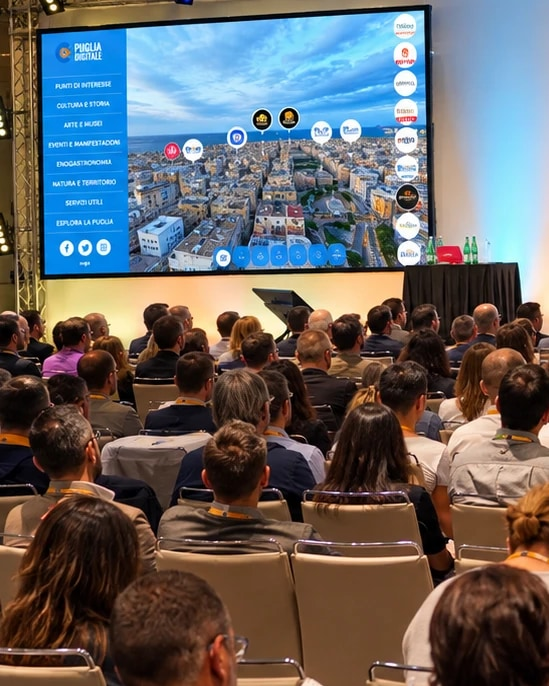
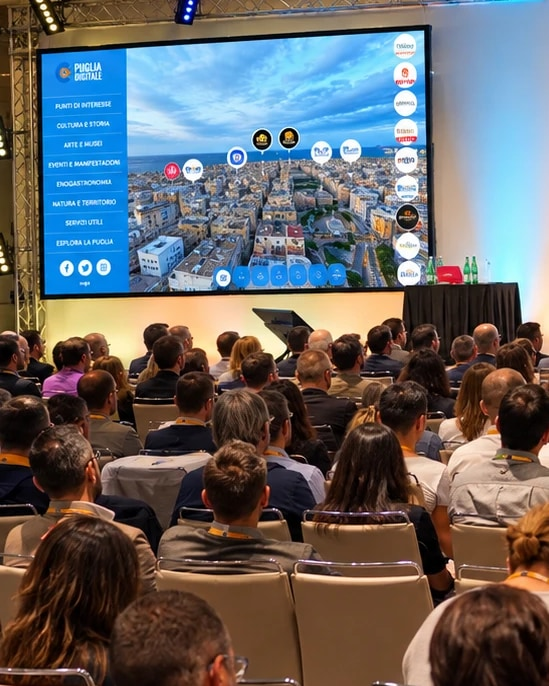
Foto dell'evento in Home: margini sopra gli schermi e nodo 1 sui tetti (creative-director); DV 0.15
Correzioni del creative-director ai ritagli della foto pulita:
- Panorama: cima a 40 invece di 55, con 21 px sopra lo spigolo più alto dello schermo di destra.
- «Città»: cima a 100 invece di 120, con 24 px sopra lo schermo; il leggio resta fuori.
- Nodo 1 sui tetti della città, sotto i segnaposto bianchi del portale, perché non si legga come
  uno di loro: 17,9/37,8, su mobile 50,3/31,8. Nodi 2 e 3 negli stessi punti, ricalcolati sulla
  nuova cima: 36,6/41,4 e 84,9/27,1.
- Direzione visiva 0.15 §4.2: tabella dei ritagli con due sorgenti.

Verifiche:
- catture a 1440 e 390 px con i nodi al loro posto;
- controllo n. 8 vuoto, astro check 0 errori, check:seo senza problemi;
- axe 0 violazioni sulla Home.

Claude-Session: https://claude.ai/code/session_01NKvF9t4Po2vVKsTtpGs26Y

diff --git a/docs/creativa/direzione-visiva.md b/docs/creativa/direzione-visiva.md
@@ -3,7 +3,7 @@ titolo: Direzione visiva
 owner: creative-director
 contributi: [ui-designer, web-performance-specialist, ux-designer, brand-strategist, copywriter-brand]
 stato: in revisione
-versione: 0.14
+versione: 0.15
 aggiornato: 2026-10-07
 fonti: [docs/brief/linee-guida.md, docs/brief/brief-consolidato.md, docs/creativa/analisi-riferimento.md, docs/ux/sitemap.md, docs/contenuti/copy-deck/home.md, src/assets/images/, test tipografici, cromatici e fotografici del 2026-09-28 (Playwright 1.56, sharp 0.34), review di Fase 5 in docs/review/ (2026-09-28), docs/review/2026-09-28-sito-verdetto-g4-creative-director.md, docs/decisioni/005-preload-del-font.md, docs/strategia/coordinate-luoghi.md (0.3), docs/review/2026-09-29-sito-ricontrollo-c14-ui-designer.md, docs/review/2026-09-29-rotazione-orizzonte-mobile-ux-designer.md, docs/ux/accessibilita.md (§2.6), misure della rotazione del 2026-09-29 (Playwright, Chromium 141, build del commit 100b578), richieste dell'utente del 2026-10-05 sulla carta di Città Digitali, docs/strategia/citta-digitali-elenco.md (0.2), docs/review/2026-10-05-mappa-citta-digitali-ui-designer.md, docs/review/2026-10-05-omonimia-citta-digitali-seo-content.md (§5), build di prova della carta del 2026-10-05 (http://localhost:4333, copia di ui-designer) e controllo del creative-director con Playwright (Chromium) a 16 larghezze, docs/review/2026-10-05-carta-citta-digitali-pagina-ui-designer.md e la sua build di prova (scratchpad ui-cdpage), docs/contenuti/copy-deck/citta-digitali.md (1.2, verifica V3), docs/review/2026-10-05-carta-citta-digitali-pagina-ux-designer.md (L6, §3.4, §6), docs/review/2026-10-05-omonimia-citta-digitali-seo-content.md (O4), staging del commit c98f565 e prova in pagina di O4 (Playwright, Chromium, da 320 a 1920 px, anche con la spaziatura di WCAG 1.4.12), src/assets/images/acquaviva-digitale.webp (immagine del portale del cliente, fornita dall'utente il 2026-10-06), decisione dell'utente del 2026-10-06 sui segni grafici (riferita dalla sessione principale), docs/contenuti/alt-text.md (1.3), docs/decisioni/007-immagine-di-acquaviva-con-segni-grafici.md, prove di ritaglio del creative-director del 2026-10-06 (sharp, Playwright), richiesta dell'utente del 2026-10-06 sulla Puglia intera e sue conferme (riferite dalla sessione principale), docs/review/2026-10-06-carta-puglia-intera-ui-designer.md (P1–P5), docs/review/2026-10-06-carta-puglia-intera-ux-designer.md, docs/review/2026-10-05-legenda-mappa-copywriter-brand.md (1.3, L7), docs/strategia/citta-digitali-elenco.md (0.3, §4), docs/ux/accessibilita.md (0.7), staging dei commit b113efb e 0d106e7 e controllo del creative-director con Playwright (Chromium) da 320 a 2560 px, prova del generatore delle carte con la regola dei 6 px sulla carta d'Italia (copia nello scratchpad, 2026-10-06), docs/review/2026-10-06-regola-11-carte-ui-designer.md (R1–R3) e le sue immagini di confronto (scratchpad ui-apart), schermate SIII inviate dall'utente il 2026-10-07 (src/assets/images/siii-*.jpg), review del 2026-10-07 in docs/review/ (schermate SIII: cro-specialist, ux-designer, web-performance-specialist; carta della Terra di Bari: ux-designer; verifica di P4: ui-designer), docs/contenuti/alt-text.md (1.6), docs/contenuti/copy-deck/home.md (1.5, didascalia della foto dell'evento), staging di d3eba9c e prove del creative-director del 2026-10-07 (Playwright, Chromium: hero di /siii/ con la sala e con la facciata, ritagli 4:5 al centro, in alto e in basso; capitoli 01–03 della Home)]
 ---
@@ -89,6 +89,8 @@ Tutto il resto è tipografia e aria.
 - §7.3, riga 5, e §7.4, righe 1 e 6: allineate al sito. Decisioni richieste, punto 6: P4 decisa.
 
 **Modifiche della versione 0.14 (2026-10-07).** §4.3: eccezione per centrare il ritratto della Home, su segnalazione dell'utente («non è centrata»). Si tolgono dallo sfondo le lettere del marchio che il ritaglio taglierebbe e si usa una nuova maschera. Il ritratto di Contatti resta com'è.
+
+**Modifiche della versione 0.15 (2026-10-07).** §4.2: la foto nuova dell'evento è nella Home. La tabella dei ritagli ha due sorgenti, i ritagli sono corretti (margini sopra gli schermi), i nodi sono spostati e c'è la proposta per il ritaglio «Schermo» di `/puglia-digitale/`.
 
 
 Il concept delle linee guida (spazio fisico → spazio digitale → persone → imprese → territorio) diventa quattro segni riconoscibili, più una regola tipografica.
@@ -519,55 +521,57 @@ La scala è fluida, con i valori misurati a 390 e 1440 px.
 2. **Una foto non documentale non finge di esserlo.** I ritratti del fondatore con fondali generati si usano solo se l'utente lo decide (DR3, §4.3). In quel caso si trasformano: monocromia a inchiostro, taglio stretto, nota di trasparenza e nessuna didascalia che li leghi a un evento.
 3. **Dove manca un'immagine, lo spazio resta progettato.** In lavorazione mostra un segnaposto dichiarato, in pubblicazione una variante tipografica (§4.5). Mai stock, mai immagini generate da noi.
 
-### 4.2 Foto dell'evento Puglia Digitale (`evento-puglia-digitale.jpg`, 1365 × 768)
+### 4.2 Foto dell'evento Puglia Digitale (`evento-puglia-digitale.jpg`, 1365 × 768; `evento-puglia-digitale-pulita.webp`, 1672 × 941)
 
-È l'unica fotografia documentale disponibile e contiene tutto il concept in un'immagine:
+È l'unica immagine dell'evento disponibile e contiene tutto il concept. Le due versioni sono elaborazioni con strumenti di intelligenza artificiale e portano la nota (B4, I7), quindi non sono documenti finché il cliente non manda l'originale dello scatto. Si vedono:
 - il palco con il fondatore e il marchio Puglia Digitale;
 - due maxischermi con tour virtuali a 360° (una vista aerea di città con le attività come punti; una piazza storica);
 - una platea numerosa e reale.
 
-**Ritagli**, con coordinate in pixel sull'originale. Tutti escludono la cornice bianca, il marchio in sovrimpressione in alto a sinistra, la scritta «Digital Innovation for the Territory» e il simbolo ✦.
+**Ritagli**, con coordinate in pixel sulla loro sorgente.
+- I ritagli della versione del 2026-09-28 escludono la cornice bianca, il marchio in sovrimpressione in alto a sinistra, la scritta «Digital Innovation for the Territory» e il simbolo ✦.
+- La versione del 2026-10-07 non ha sovrimpressioni: i ritagli possono tenere interi i due schermi.
 
-| Ritaglio | Area (x, y, larghezza × altezza) | Formato | Uso |
-|---|---|---|---|
-| **Panorama** | 46, 124, 1272 × 560 | 2,27:1 | Home §3 «Documento» (desktop e tablet) |
-| **Città** | 46, 124, 448 × 560 | 4:5 | Home §3 su mobile: lo schermo con la città vista dall'alto a 360° e la platea |
-| **Palco** | 470, 124, 448 × 560 | 4:5 | Home §6, chiusura della timeline del fondatore (opzione DR3-a, §4.3) |
-| **Schermo** | 880, 124, 438 × 548 | 4:5 | Puglia Digitale §2: la piazza a 360° sul maxischermo e chi la guarda |
+| Ritaglio | Sorgente | Area (x, y, larghezza × altezza) | Formato | Uso |
+|---|---|---|---|---|
+| **Panorama** | `evento-puglia-digitale-pulita.webp` (dal 2026-10-07) | 0, 40, 1672 × 736 | 2,27:1 | Home §3 «Documento» (desktop e tablet). I due schermi e il marchio sul fondale sono interi, con 21 px di margine sopra lo spigolo più alto dello schermo destro |
+| **Città** | `evento-puglia-digitale-pulita.webp` | 24, 100, 549 × 686 | 4:5 | Home §3 su mobile: lo schermo con la città vista dall'alto a 360°, intero con 24 px di margine sopra, e la platea. Il bordo destro si ferma prima del leggio |
+| **Palco** | `evento-puglia-digitale.jpg` | 470, 124, 448 × 560 | 4:5 | Solo con DR3-a (§4.3), oggi non in uso |
+| **Schermo** | `evento-puglia-digitale.jpg` | 880, 124, 438 × 548 | 4:5 | Puglia Digitale §2: la piazza a 360° sul maxischermo e chi la guarda. Taglia lo schermo sopra e a destra. Con la sorgente nuova, se l'utente lo approva: 1112, 40, 560 × 700, con lo schermo intero e circa 20 px di margine su tre lati `[IPOTESI: da provare in pagina]` |
 
 In Home la foto compare al massimo due volte, in ritagli con soggetti diversi.
 
 - **Colore.** Intatto: nessun filtro, viraggio o duotono. Solo esportazione ottimizzata in AVIF e WebP.
-- **Limite di risoluzione.** Il ritaglio pulito misura 1272 px: la foto non va mai a tutto schermo e resta al massimo a 1200 px CSS. Sugli schermi ad alta densità si ammorbidisce, quindi l'originale è la prima richiesta (§4.6).
-- **Nodi sul Panorama.** Sono pulsanti numerati, con una legenda sotto la foto sempre visibile su mobile. La legenda descrive solo ciò che si vede, senza fatti da verificare. Posizioni in percentuale del ritaglio:
-  1. Schermo sinistro (13%, 18%): «Una città vista dall'alto a 360°: le attività sono punti da aprire».
-  2. Palco, sul leggio accanto all'oratore (36%, 31%): «Il palco». Il nome di chi parla si aggiunge solo dopo la conferma (registro F7). Nella versione 0.1 il nodo stava a (44%, 30%), sul busto di una persona non identificata: un segno d'interazione non va sul corpo di qualcuno (G4, N7; posizione misurata da ui-designer, C14-2).
-  3. Schermo destro (84%, 17%): «Una piazza storica esplorabile a 360°».
+- **Limite di risoluzione.** Il Panorama nuovo misura 1672 px (prima 1272): la foto non va mai a tutto schermo e resta al massimo a 1200 px CSS. Sugli schermi ad alta densità si ammorbidisce un poco, quindi l'originale resta la prima richiesta (§4.6).
+- **Nodi sul Panorama.** Sono pulsanti numerati, con una legenda sotto la foto sempre visibile su mobile. La legenda descrive solo ciò che si vede, senza fatti da verificare; i testi sono quelli del copy deck della Home (§3). Posizioni in percentuale dei ritagli del 2026-10-07, misurate dal creative-director sulla sorgente:
+  1. **Schermo sinistro, sui tetti della città**, sotto i segnaposto del portale: Panorama (17,9%, 37,8%), «Città» (50,3%, 31,8%). Testo: «Vista aerea a 360° di una città, con le attività in evidenza».
+     - Mai tra i segnaposto: sono dischi bianchi come i nostri nodi, e il nodo si leggerebbe come uno di loro (nella prima versione stava a 16,4%, 29,2%).
+  2. **Palco, sul leggio accanto all'oratore** (36,6%, 41,4%). Testo: «Il palco dell'evento Puglia Digitale».
+     - Il nome di chi parla si aggiunge solo dopo la conferma (registro F7).
+     - Un segno d'interazione non va mai sul corpo di qualcuno (G4, N7). Nella versione 0.1 il nodo stava sul busto di una persona non identificata.
+  3. **Schermo destro, in fondo alla piazza** (84,9%, 27,1%), lontano dal segnaposto azzurro del portale. Testo: «Una piazza storica esplorabile a 360°».
+
+  Sul telefono, nel ritaglio «Città», c'è solo il nodo 1.
 - **Didascalia.** Servono tre cose: l'originale dello scatto, cioè la conferma che la scena non è alterata; il luogo; la data (brief consolidato, registro A4). Solo allora va in mono il testo di copywriter-brand (2026-10-07): «L'evento Puglia Digitale · {luogo}, {data}». Se l'autore è noto ed è d'accordo, si aggiunge «· foto {autore}».
   - Senza «regionale», come nel nodo 2: non deve suggerire un legame istituzionale (brief, A2). È anche il nome della sezione.
   - Nessun numero di partecipanti se non documentato.
   - Su un'immagine elaborata con strumenti di intelligenza artificiale non va nessuna didascalia con luogo e data: legherebbe a un evento preciso una scena che non è un documento (§4.1, regola 2).
 - **Persone in platea (A4).** I ritagli scelti mostrano la platea di spalle, ma la liberatoria o l'informativa dell'evento va comunque verificata. Senza, si stringono i ritagli sui due schermi e sul palco, escludendo i profili ai margini.
 - **Nota di veridicità.** La sovrimpressione con il simbolo ✦ in basso a destra somiglia al segno che lasciano alcuni strumenti di editing generativo; la scritta «Digital Innovation for the Territory» non si usa (A6). Va chiesto il file originale senza sovrimpressioni e la conferma che la scena non è stata alterata.
-- **Nuova versione per la Home** (richiesta dell'utente del 2026-10-07: «aggiorna questa in home»). Indicazioni del creative-director prima di vedere il file (`docs/review/2026-10-07-schermate-siii-p4-verdetto-creative-director.md`, §4). I ritagli li rivedo nell'anteprima.
-  - **Che cos'è.** La stessa scena senza cornice, logo, scritta e ✦, più grande (circa 1672 × 941 px). Ma l'oratore ha un'altra posa, quindi è un'altra elaborazione, non l'originale dello scatto.
-    - La nota «Immagine elaborata con strumenti di intelligenza artificiale» resta (B4, I7), e nessuna didascalia con luogo e data.
+- **Nuova versione per la Home** (richiesta dell'utente del 2026-10-07: «aggiorna questa in home»). È pubblicata nel commit 920e497. Il creative-director l'ha rivista sulla sorgente e in pagina, con le correzioni già riportate nella tabella e nei nodi qui sopra.
+  - **Che cos'è.** La stessa scena senza cornice, logo, scritta e ✦, più grande (1672 × 941 px). Ma l'oratore ha un'altra posa, quindi è un'altra elaborazione, non l'originale dello scatto.
+    - La nota «Immagine elaborata con strumenti di intelligenza artificiale» resta (B4, I7), e non c'è didascalia con luogo e data.
     - Cambia solo con la conferma scritta del cliente che la scena non è alterata.
-  - **Stessi formati di oggi.** Panorama 2,27:1 per desktop e tablet, «Città» 4:5 per il telefono: impaginato, nodi e legenda non si spostano, e lo scambio non causa CLS. Le aree si ricalcolano sul file nuovo.
-  - **Panorama: usare lo spazio liberato.** Oggi il ritaglio taglia lo schermo destro, sopra e a destra, e la parte alta del marchio sul fondale, per evitare la cornice. Il nuovo ritaglio contiene interi i due schermi e il marchio Puglia Digitale del fondale, con un margine sopra di almeno il 2% dell'altezza. Sotto, la platea si taglia dove cade.
-    - Se l'inquadratura è la stessa di oggi (scala 1,225), l'area è all'incirca su tutta la larghezza: 0, 55, 1672 × 736 `[IPOTESI: da verificare sul file]`.
-  - **«Città» 4:5:** lo schermo sinistro intero, con il suo menu laterale, e la platea sotto. Più o meno 40, 120, 549 × 686 `[IPOTESI]`.
-  - **In tutti e due:** colore intatto; nessun profilo riconoscibile ai margini (A4); mai più di 1200 px CSS, come oggi.
-  - **Nodi:** gli stessi tre, rimisurati da ui-designer sui ritagli nuovi.
-    1. Sul contenuto dello schermo sinistro, non sul menu né sulla cornice.
-    2. Sul leggio accanto all'oratore, mai sulla persona (N7).
-    3. Sul contenuto dello schermo destro.
-
-    Sul telefono resta solo il nodo 1.
-  - **Legenda e testo alternativo:** descrivono solo ciò che si vede.
-    - Se sugli schermi si legge il portale Puglia Digitale con il suo menu, le voci 1 e 3 si riscrivono: legenda di copywriter-brand, testo alternativo di copywriter-content.
-    - Se non cambia nulla di visibile, restano.
-  - **`/puglia-digitale/`** (ritaglio «Schermo», §2) tiene la versione di oggi, perché l'utente ha detto «in home». Ma due pose diverse dello stesso oratore sullo stesso sito si notano, e indeboliscono tutte e due le immagini. Va chiesto all'utente se aggiornare anche quella pagina (Domande aperte).
+  - **Stessi formati di prima**, Panorama 2,27:1 e «Città» 4:5: impaginato e legenda non si spostano, e lo scambio non causa CLS.
+  - **Le due correzioni del creative-director**, misurate sulla sorgente.
+    - Gli schermi sono inclinati: lo spigolo più alto del destro è a y 61, quello del sinistro a y 124. Con i primi ritagli (cima a 55 e a 120) restavano 4–6 px di margine, e gli schermi sembravano schiacciati contro il bordo. Ora le cime sono a 40 e a 100, cioè 21 e 24 px di margine.
+    - Il nodo 1 è sceso dai segnaposto del portale ai tetti.
+  - **Verificati:** nessun profilo riconoscibile ai margini (A4): in basso la platea è di spalle. Il leggio resta fuori dal ritaglio «Città». Colore intatto.
+  - **Legenda e testo alternativo** restano: gli schermi mostrano ancora il portale con il menu laterale, una città vista dall'alto con le attività e una piazza.
+  - **`/puglia-digitale/`** (ritaglio «Schermo», §2) tiene la versione del 2026-09-28, perché l'utente ha detto «in home».
+    - In quel ritaglio l'oratore non c'è, quindi la differenza di posa non si vede.
+    - La sorgente nuova lo migliorerebbe comunque: lo schermo intero invece che tagliato sopra e a destra, più risoluzione e una sola versione della scena sul sito.
+    - Consigliato, non necessario: decide l'utente (Domande aperte).
 
 ### 4.3 Ritratti del fondatore (decisione DR3, in attesa dell'utente)
 
@@ -1147,7 +1151,7 @@ Da aggiungere, per la parte visiva:
 - **Riferimento.** Screenshot di aprildunford.com (vedi `analisi-riferimento.md`).
 - **Persone nella foto dell'evento.** Ai partecipanti è stata data un'informativa sulle riprese? Senza, i ritagli si stringono sui due schermi e sul palco, escludendo i profili riconoscibili ai margini (§4.2).
 - **Nuova versione della foto dell'evento (§4.2).** È l'originale dello scatto o un'elaborazione? La posa dell'oratore è diversa: finché il cliente non conferma che la scena non è alterata, restano la nota AI e nessuna didascalia con luogo e data.
-- **Foto dell'evento su `/puglia-digitale/`.** L'utente ha chiesto la nuova versione «in home». La aggiorniamo anche nella pagina, così sul sito c'è una sola versione della scena? Decide l'utente.
+- **Foto dell'evento su `/puglia-digitale/`.** L'utente ha chiesto la nuova versione «in home». La usiamo anche per il ritaglio «Schermo» della pagina? Avrebbe lo schermo intero e più risoluzione, e sul sito resterebbe una sola versione della scena. È consigliato, non necessario: decide l'utente.
 - **Elenco delle città di Città Digitali.** Le domande al cliente (città attive, data dell'elenco) sono in `docs/strategia/citta-digitali-elenco.md` e non si duplicano qui. Il legame con le «30+ città» di Puglia Digitale l'ha confermato l'utente il 2026-10-06: sono le 31 città pugliesi dell'elenco. Per la parte visiva, quindi, anche la carta del capitolo 02 della Home può passare al punto-città (P4). Il creative-director la consiglia, ma l'utente non l'aveva chiesta: decide lui (Decisioni richieste, punto 6).
 
 ## Decisioni richieste
@@ -1167,5 +1171,5 @@ Da aggiungere, per la parte visiva:
    **Aggiornamento del G4:** il sito applica (b). Anche la foto dell'evento porta ora la nota AI (B4), quindi (a) ha perso il suo vantaggio finché non arriva l'originale. Parere: (b) con le maschere del §4.3 per il lancio, (c) appena possibile. Decide l'utente, con l'ADR 002.
 3. **Produzione fotografica dei luoghi** (6 località) **e del ritratto del fondatore**: budget e tempi. Senza, il sito va online con le varianti tipografiche (§4.5), progettate per reggere da sole.
 4. **Concept della hero** («L'orizzonte dei luoghi»): pubblica i luoghi con direzione e distanza dalla sede di Acquaviva. Doveva essere approvato al gate G2 insieme a questa direzione visiva; G2 non è mai stato approvato formalmente, quindi l'approvazione va data ora, insieme al G4.
-5. **Approvazione di questa direzione visiva (versione 0.14)** da parte dell'utente, retroattiva per il G2: è la condizione perché passi allo stato «approvato».
+5. **Approvazione di questa direzione visiva (versione 0.15)** da parte dell'utente, retroattiva per il G2: è la condizione perché passi allo stato «approvato».
 6. **Capitolo 02 della Home con la Puglia intera (P4 di ui-designer): decisa.** L'utente l'ha approvata il 2026-10-07 («sì, mettila»), e la Home la mostra dal commit 3e25c42, con la legenda e la descrizione L7. La carta della Terra di Bari non è più usata, e si toglie dal generatore e dal componente (decisione del creative-director del 2026-10-07, sulla proposta di ui-designer).

diff --git a/.claude/agent-memory/creative-director/MEMORY.md b/.claude/agent-memory/creative-director/MEMORY.md
@@ -70,6 +70,8 @@ Lezioni e preferenze. Le decisioni ufficiali stanno in `docs/creativa/` e `docs/
 - **Il ritaglio centrato non è neutro.** Sotto i 64em conta che cosa entra nella prima schermata: si misura dove inizia l'immagine e si guarda la parte visibile. Per la sala di Masseria Santella il ritaglio ancorato in basso mostrava lo spazio; al centro c'erano mezzo logo e soffitto. Le due opzioni proposte, centro e alto, non erano le sole.
 - **Un'elaborazione non è un documento, anche se è più pulita.** La nuova foto dell'evento senza cornice e senza ✦ ha l'oratore in un'altra posa. Pulizia e veridicità sono due cose diverse: resta la nota AI, e niente didascalia con luogo e data.
 - **Un'eccezione al divieto di ritocco va tenuta stretta** (2026-10-07, ritratto della Home). Si toglie solo il segno sovrapposto che il ritaglio non può escludere senza rovinare la composizione, con uno script deterministico e solo nel caso segnalato. Per Contatti, dove la pulizia sarebbe stata più ampia, il ritratto è rimasto com'è.
+- **Margini dei ritagli: misurare lo spigolo più alto, non il centro** (2026-10-07, foto dell'evento). Gli schermi in prospettiva sono inclinati: il margine «del 2%» calcolato sul centro lasciava 4–6 px sullo spigolo. Un profilo di luminanza lungo una colonna trova il bordo scuro della cornice in un attimo.
+- **Un nodo nostro non va tra segni simili.** Sugli schermi del portale i segnaposto sono dischi bianchi come i nostri nodi, e lì il nodo si legge come uno di loro. Va messo dove il contenuto è calmo: tetti, pavimento, fondali.
 - **Le regole «opzione principale / ripiego» funzionano.** Per le coordinate la fonte a 4 decimali non era raggiungibile: il ripiego a 2 decimali, scritto nella DV, ha chiuso C11 senza un nuovo arbitrato.
 
 ## Preferenze e feedback del cliente e dell'utente
